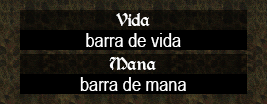
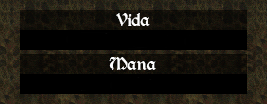
assets: edit UI assets I have learn a bit of image editing for this

Changed region(s): [[0.2996, 0.7212, 0.7191, 0.8942], [0.2996, 0.3173, 0.6891, 0.4615]]

diff --git a/client/src/GameWindow.cpp b/client/src/GameWindow.cpp
@@ -210,25 +210,23 @@ GameWindow::Layout GameWindow::getLayout() const {
   return Layout{
       SDL2pp::Rect(0, 0, 960, 540),
 
-      // Chat messages izquierdo
+      // Chat messages
       SDL2pp::Rect(3, 3, 676, 113),
       
-      // Chat input izquierdo
-      // SDL2pp::Rect(3, 120, 676, 113),
+      // Chat input
       SDL2pp::Rect(3, 122, 676, 20), 
       
-      // Area jugable
-      // SDL2pp::Rect(8, 148, 668, 382),
-      SDL2pp::Rect(8, 150, 668, 380),
+      // Juego principal
+      SDL2pp::Rect(8, 145, 668, 385),
 
-      // Panel derecho superior
+      // Informacion/Exp
       SDL2pp::Rect(688, 8, 260, 104),
 
-      // Inventario / equipamiento
-      SDL2pp::Rect(688, 150, 260, 270),
+      // Inventario/Equipamiento
+      SDL2pp::Rect(688, 155, 260, 265),
 
-      // Panel inferior derecho
-      SDL2pp::Rect(688, 432, 260, 100)
+      // Vida/Mana
+      SDL2pp::Rect(688, 440, 260, 88)
   };
 }
 
